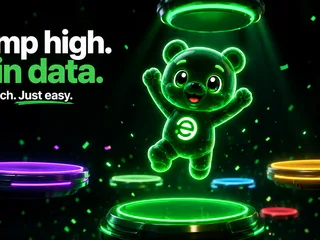
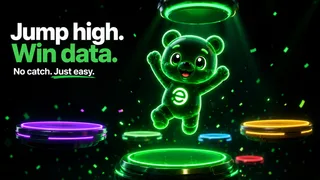
Fix jump card text crop: full-frame art with contain letterbox
- Regenerated easy_jump_card.webp from the original full-res art at
  320x180 (the first pass cover-cropped the left-side headline off);
  card renders it object-fit: contain on a #050d09 background, so the
  dark bars blend into the art (11.5KB)
- Wheel card unchanged: native 4:3, 320x240 cover (18.5KB)

diff --git a/src/pages/Games.jsx b/src/pages/Games.jsx
@@ -8,8 +8,11 @@ import Seo from '../components/Seo.jsx'
 // here. Cards match the buy-page network selector styling: dark green, neon
 // glow on hover, 160×120 placeholder graphic, name below in white bold.
 const GAMES = [
-  { id: 'wheel', name: 'easy Wheel', to: '/games/wheel', img: '/easy_wheel_card.webp' },
-  { id: 'jump', name: 'easy Jump', to: '/games/jump', img: '/easy_jump_card.webp' },
+  // wheel art is native 4:3 → cover fills the box edge-to-edge with no crop.
+  { id: 'wheel', name: 'easy Wheel', to: '/games/wheel', img: '/easy_wheel_card.webp', fit: 'cover' },
+  // jump art is 16:9 with its headline on the left — cover would crop the
+  // text, so it letterboxes (contain + dark bars that blend with the art).
+  { id: 'jump', name: 'easy Jump', to: '/games/jump', img: '/easy_jump_card.webp', fit: 'contain' },
 ]
 
 export default function Games() {
@@ -40,7 +43,9 @@ export default function Games() {
               src={g.img}
               alt=""
               draggable="false"
-              className="mx-auto h-[120px] w-[160px] rounded-2xl object-cover"
+              className={`mx-auto h-[120px] w-[160px] rounded-2xl bg-[#050d09] ${
+                g.fit === 'contain' ? 'object-contain' : 'object-cover'
+              }`}
             />
             <p className="mt-3 text-center font-display text-base font-bold text-white">{g.name}</p>
           </motion.button>